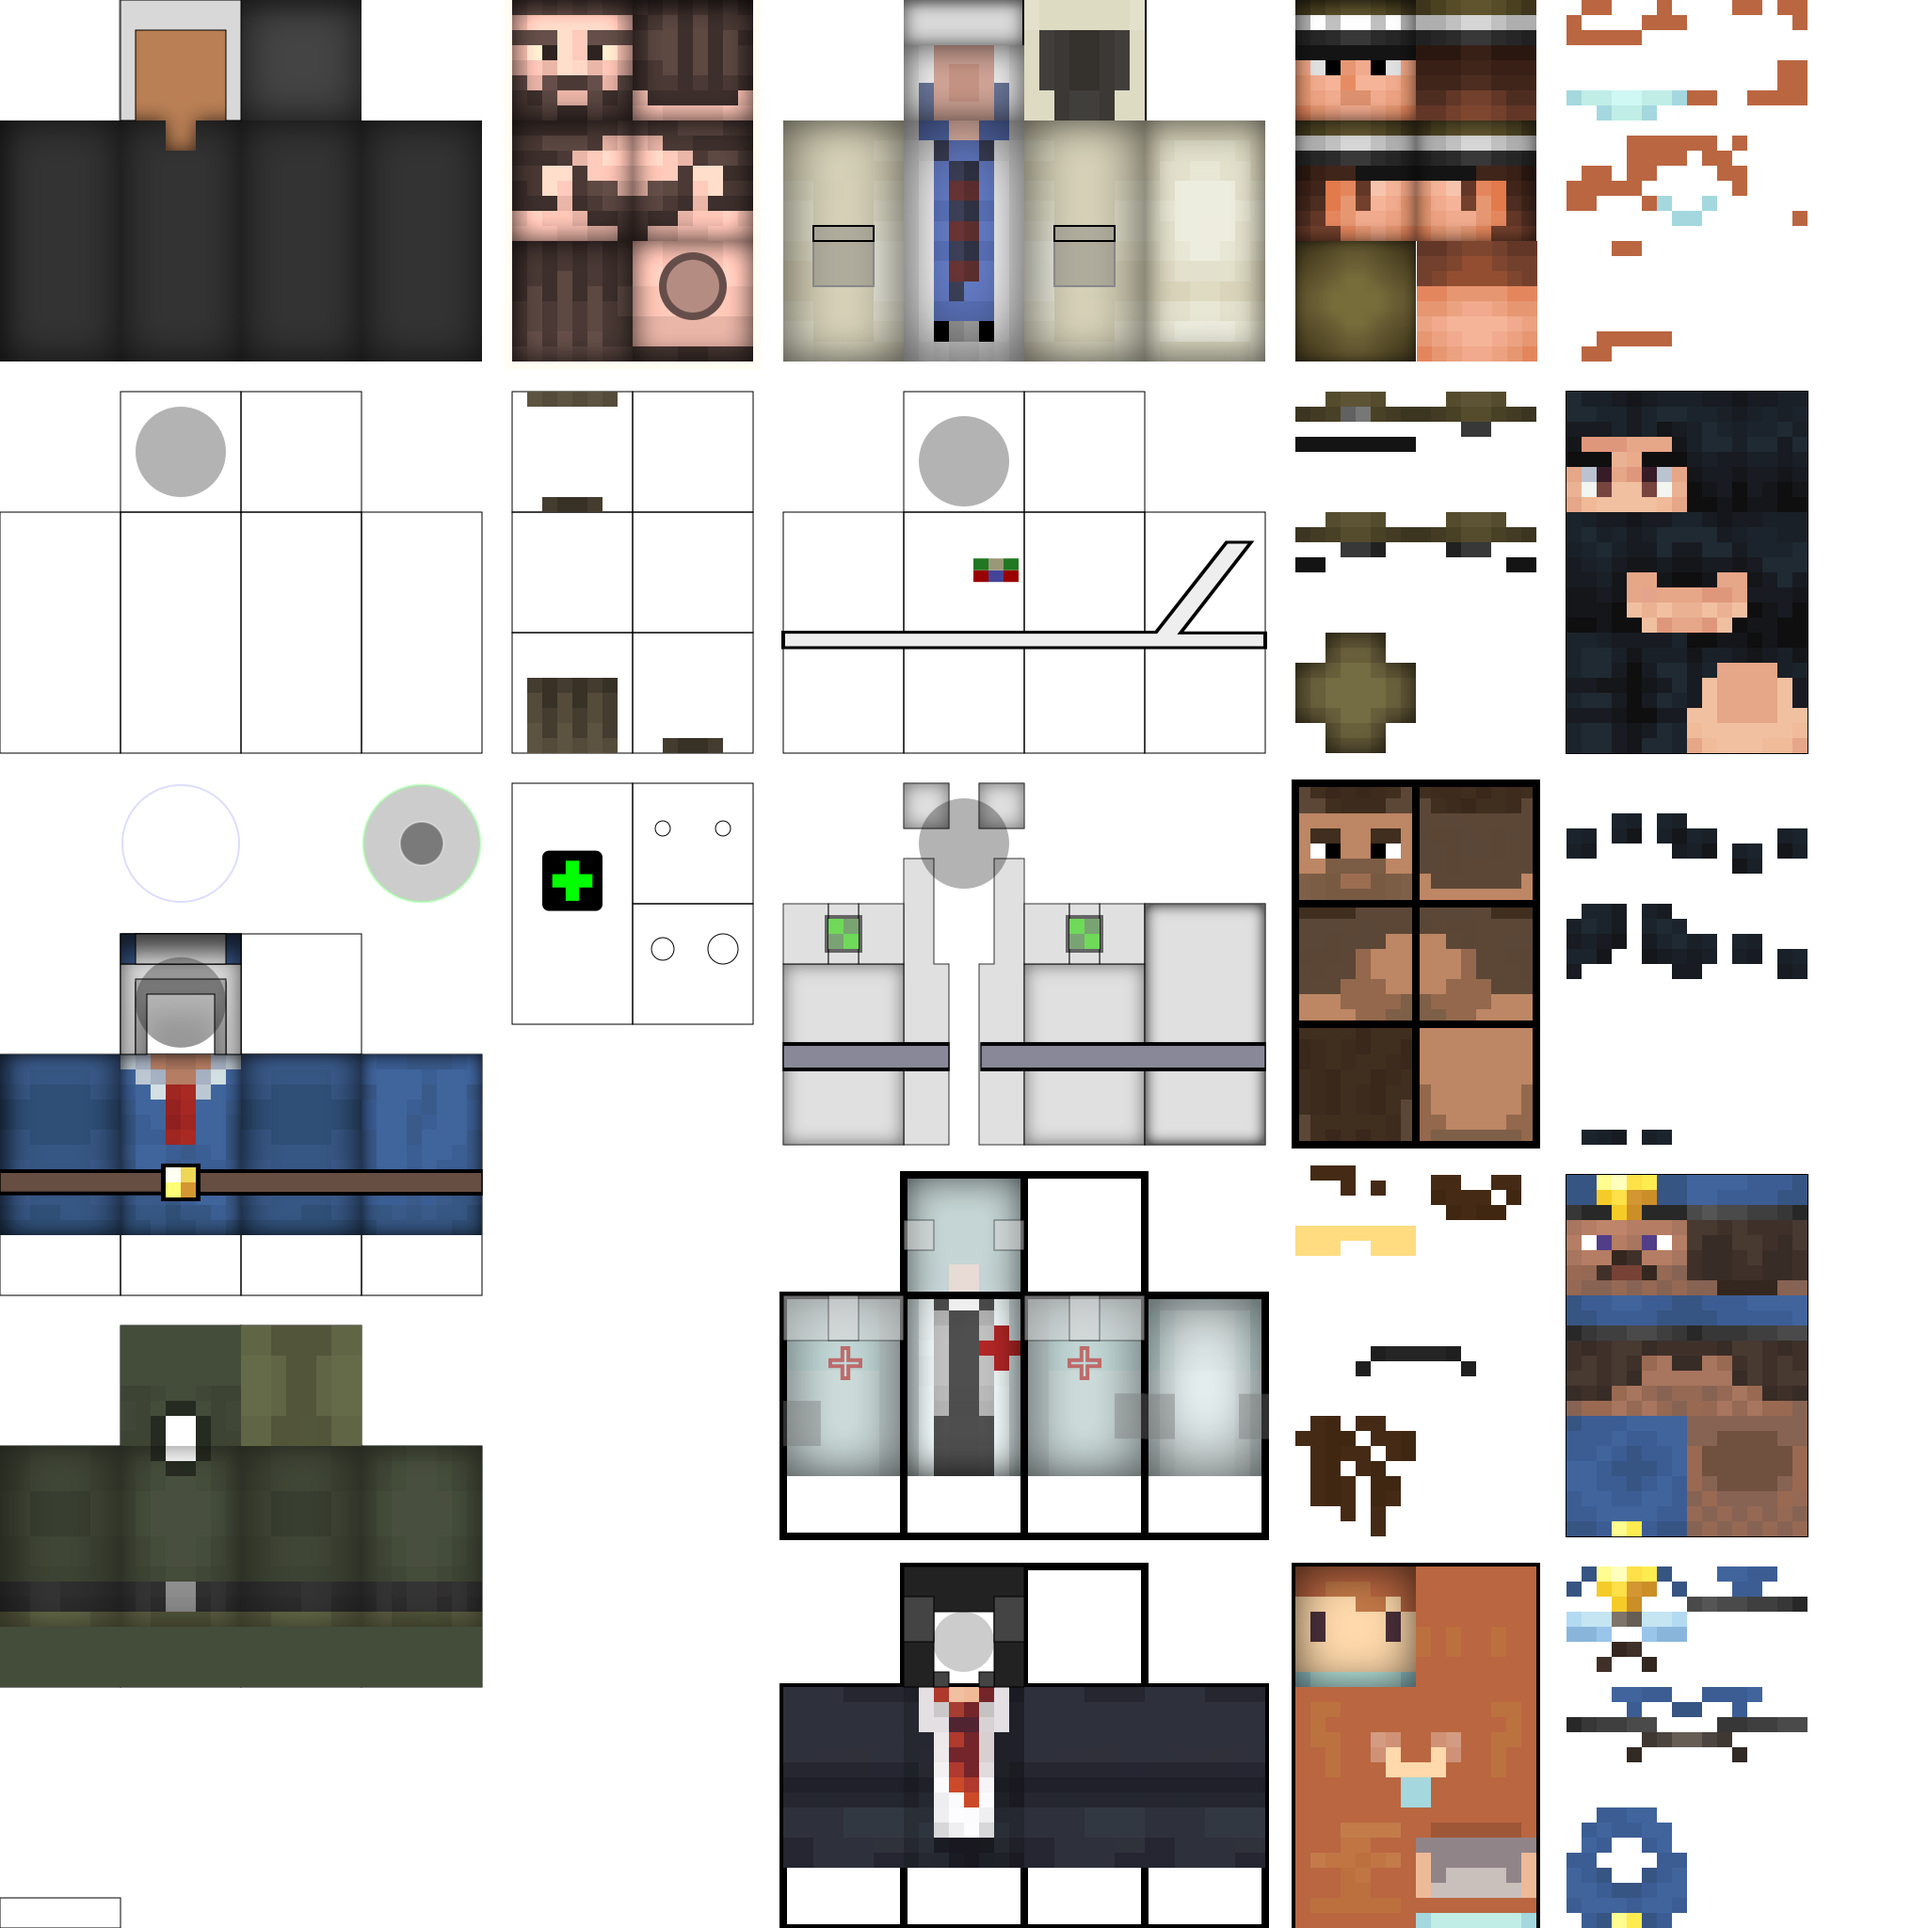
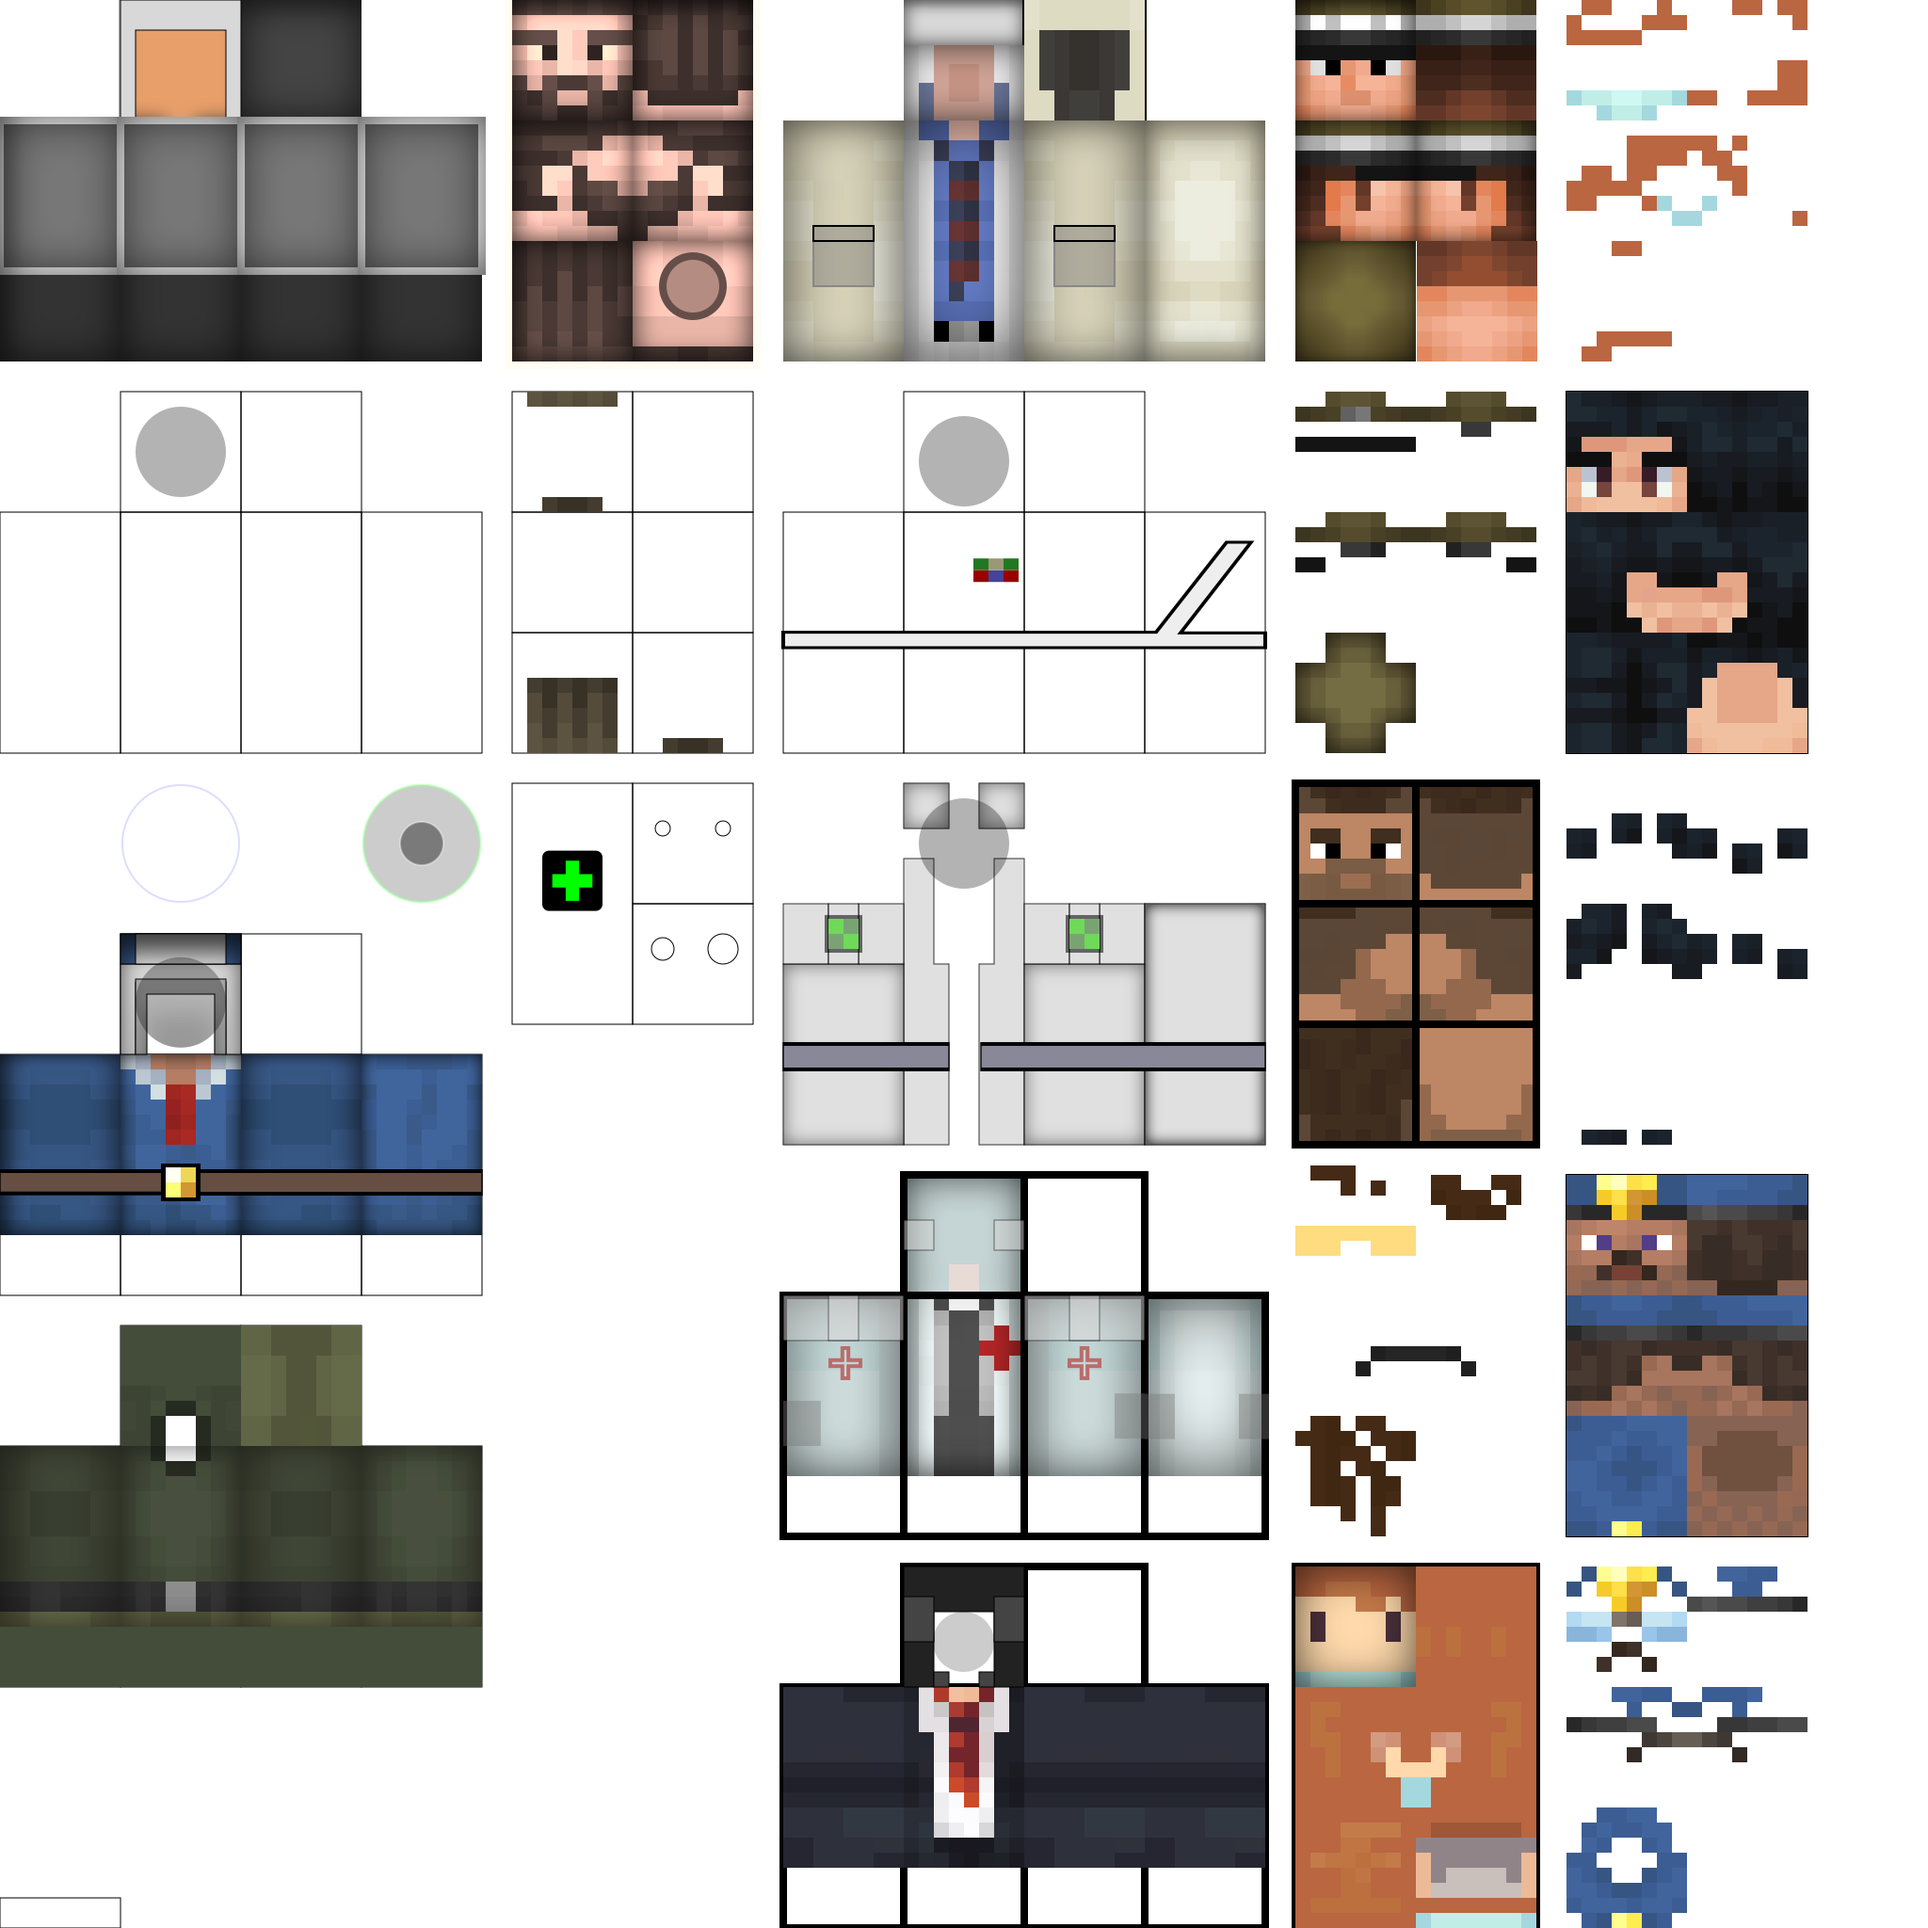
feat: improve base-body a bit

Changed region(s): [[0.0, 0.0, 0.25, 0.1562]]

diff --git a/docs/TODO.md b/docs/TODO.md
@@ -53,6 +53,7 @@
     - `w.geomorphs.skin.uvMap`
     - `w.npc.sheetAux[w.n.rob.def.classKey].uvMap`
   - could precompute skinShortcut -> { head, body, headOverlay, bodyOverlay }
+- can `spawn foo soldier-0 $( click 1)`
 
 - 🚧 "global vars" DataArrayTexture nx1x1 (1 pixel per texture)
   - ✅ invert npc (when WorldMenu invert on)
@@ -62,7 +63,7 @@
 
 - ✅ plain-0-body <-> base-0-body
 
-- improve base skin yet again: base-body too basic
+- ✅ improve base skin yet again: base-body too basic
 
 - consider fixing azimuthal rotation and having WASD for e.g.
   - `w view.tween '{ azimuthal: Math.PI/2 }`
